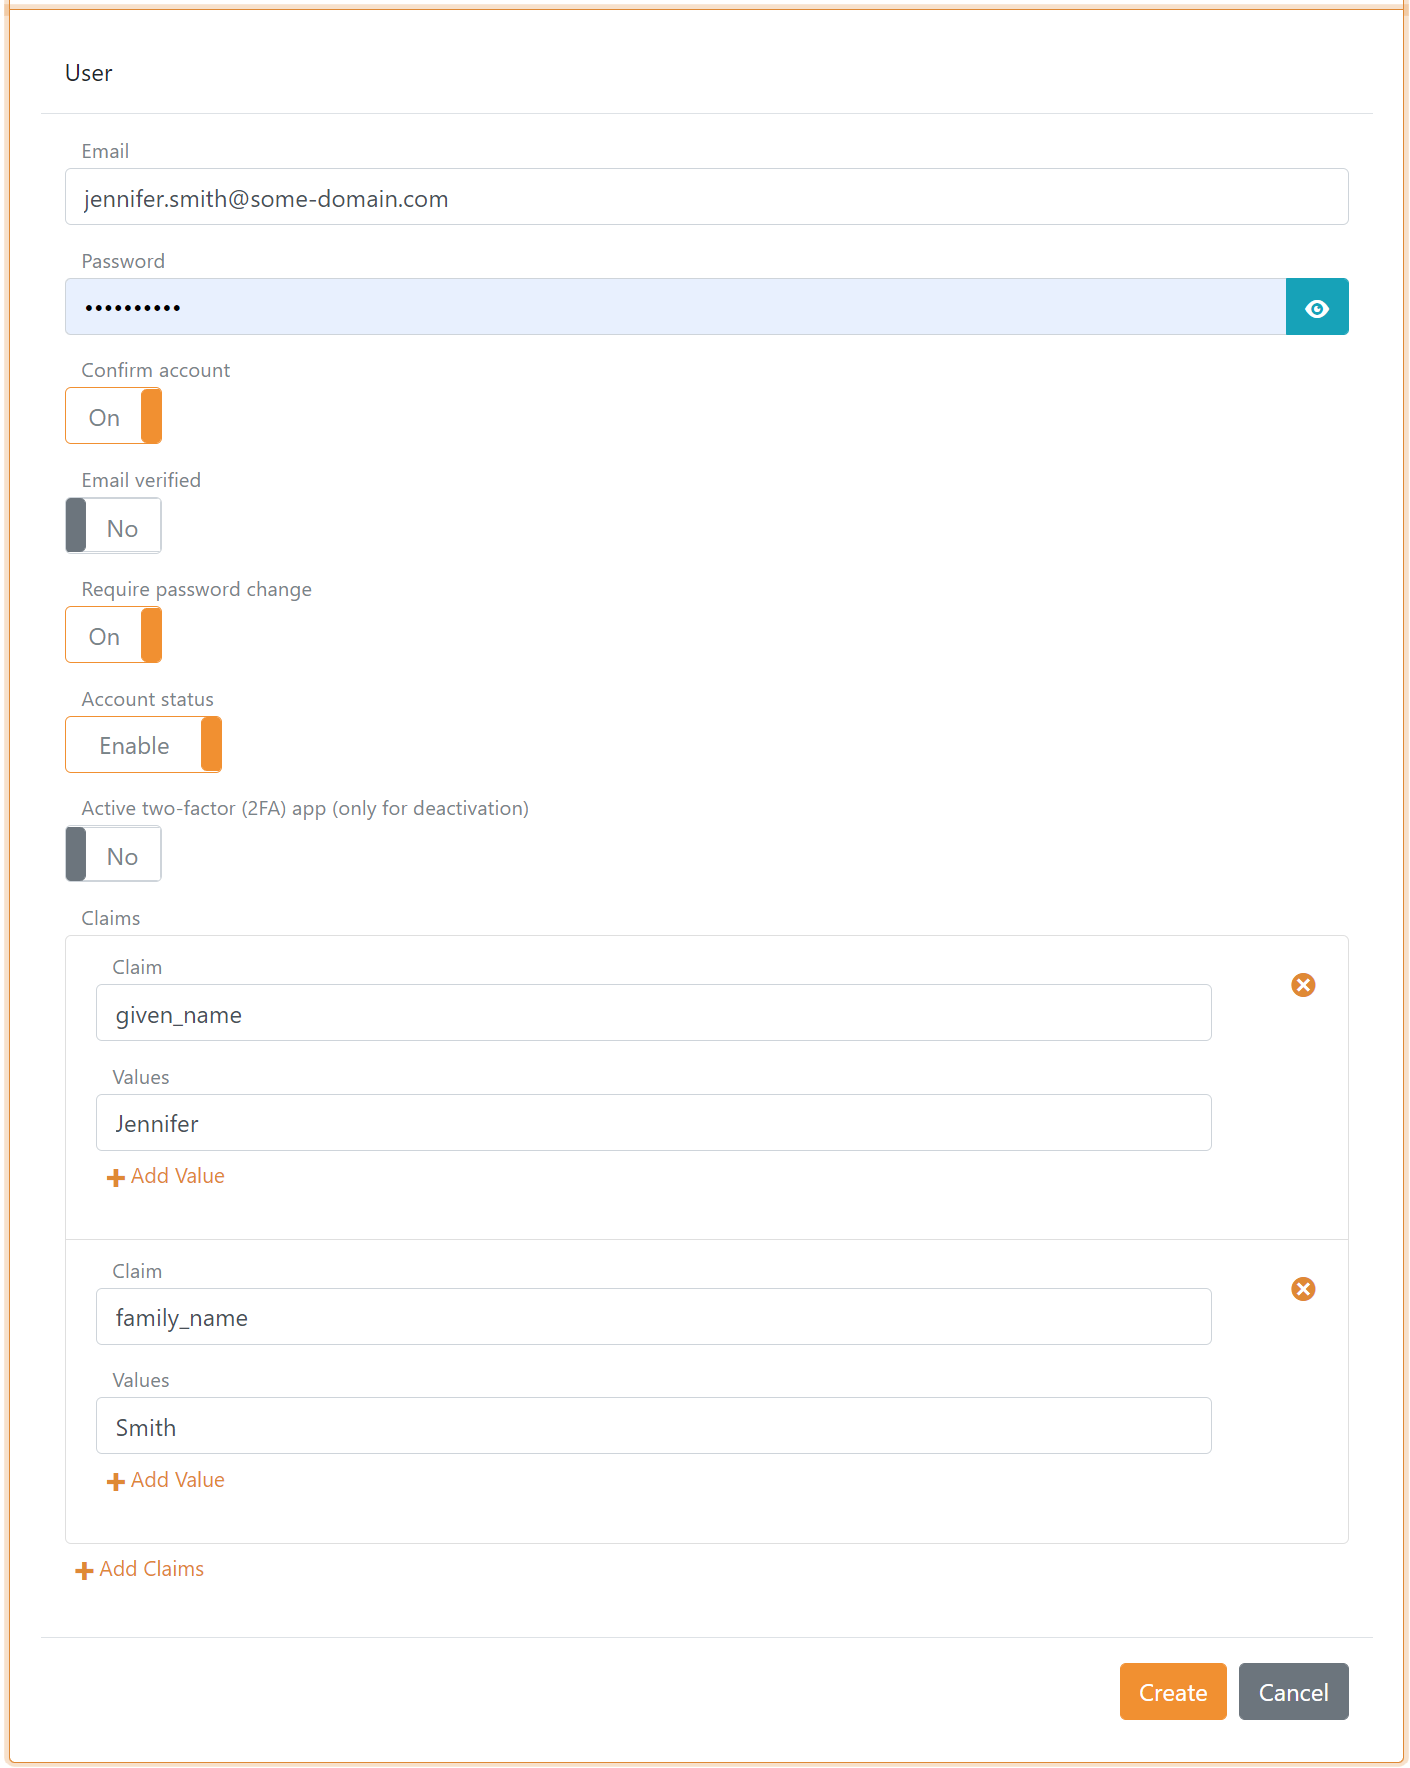
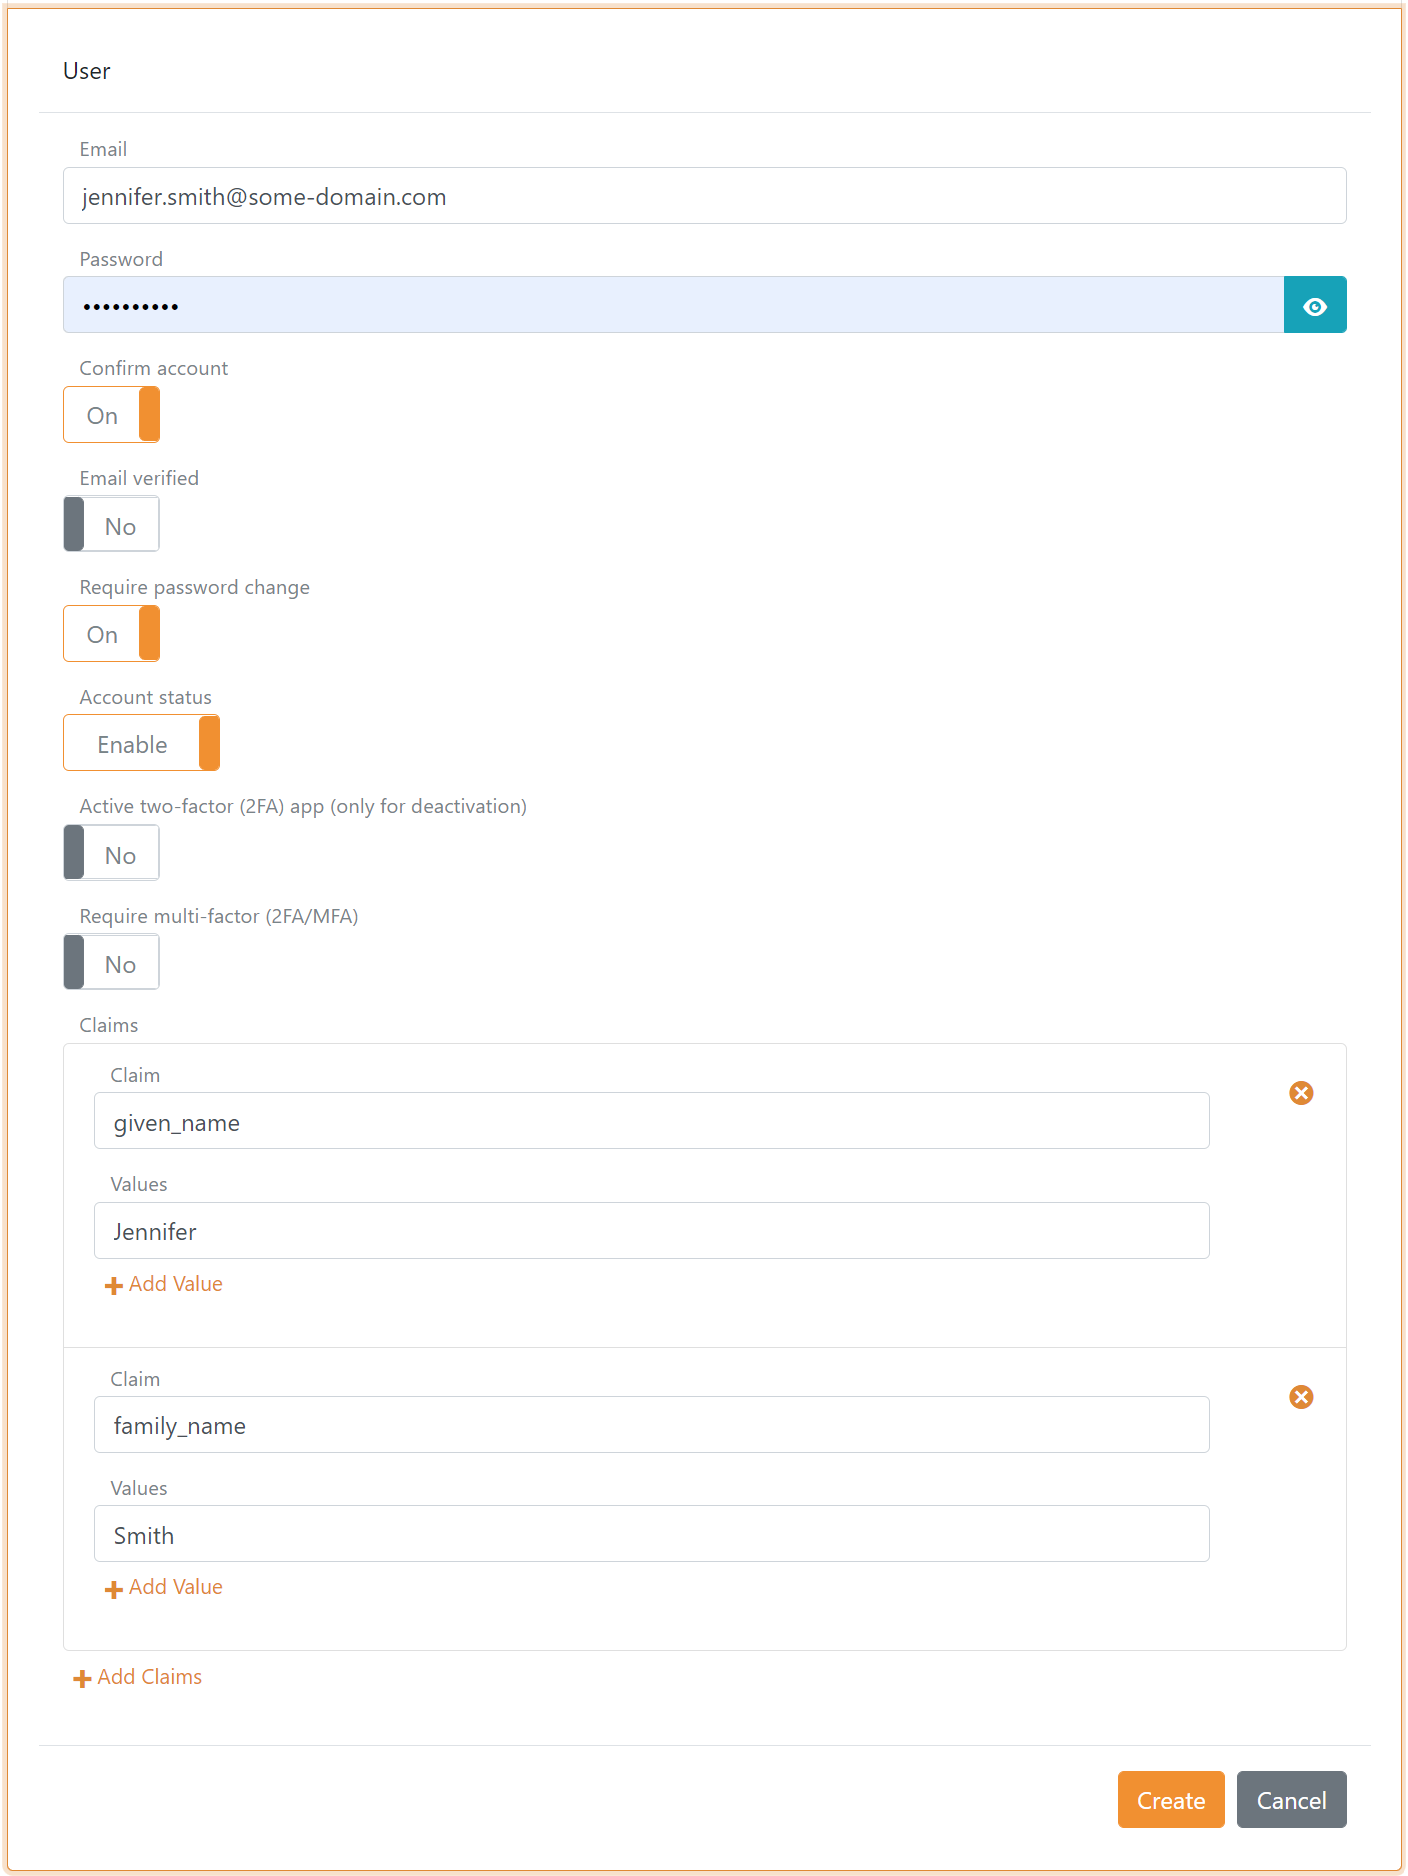
User require MFA.

diff --git a/src/FoxIDs.Shared/Logic/Tracks/BaseAccountLogic.cs b/src/FoxIDs.Shared/Logic/Tracks/BaseAccountLogic.cs
@@ -27,14 +27,14 @@ namespace FoxIDs.Logic
             this.secretHashLogic = secretHashLogic;
         }
 
-        public async Task<User> CreateUser(string email, string password, bool changePassword = false, List<Claim> claims = null, string tenantName = null, string trackName = null, bool checkUserAndPasswordPolicy = true, bool confirmAccount = true, bool emailVerified = false, bool disableAccount = false)
+        public async Task<User> CreateUser(string email, string password, bool changePassword = false, List<Claim> claims = null, string tenantName = null, string trackName = null, bool checkUserAndPasswordPolicy = true, bool confirmAccount = true, bool emailVerified = false, bool disableAccount = false, bool requireMultiFactor = false)
         {
             logger.ScopeTrace(() => $"Creating user '{email}', Route '{RouteBinding?.Route}'.");
 
             email = email?.ToLower();
             ValidateEmail(email);
 
-            var user = new User { UserId = Guid.NewGuid().ToString(), ConfirmAccount = confirmAccount, EmailVerified = emailVerified, DisableAccount = disableAccount };
+            var user = new User { UserId = Guid.NewGuid().ToString(), ConfirmAccount = confirmAccount, EmailVerified = emailVerified, DisableAccount = disableAccount, RequireMultiFactor = requireMultiFactor };
             var userIdKey = new User.IdKey { TenantName = tenantName ?? RouteBinding.TenantName, TrackName = trackName ?? RouteBinding.TrackName, Email = email?.ToLower() };
             await user.SetIdAsync(userIdKey);
 

diff --git a/src/FoxIDs.Control/Controllers/Tracks/TUserController.cs b/src/FoxIDs.Control/Controllers/Tracks/TUserController.cs
@@ -84,7 +84,7 @@ namespace FoxIDs.Controllers
                     }
                 }
                 var mUser = await accountLogic.CreateUser(createUserRequest.Email, createUserRequest.Password, changePassword: createUserRequest.ChangePassword, claims: claims, 
-                    confirmAccount: createUserRequest.ConfirmAccount, emailVerified: createUserRequest.EmailVerified, disableAccount: createUserRequest.DisableAccount);
+                    confirmAccount: createUserRequest.ConfirmAccount, emailVerified: createUserRequest.EmailVerified, disableAccount: createUserRequest.DisableAccount, requireMultiFactor: createUserRequest.RequireMultiFactor);
                 return Created(mapper.Map<Api.User>(mUser));
             }
             catch(UserExistsException ueex)
@@ -145,6 +145,7 @@ namespace FoxIDs.Controllers
                     mUser.TwoFactorAppSecretExternalName = null;
                     mUser.TwoFactorAppRecoveryCode = null;
                 }
+                mUser.RequireMultiFactor = user.RequireMultiFactor;
                 var mClaims = mapper.Map<List<Models.ClaimAndValues>>(user.Claims);
                 mUser.Claims = mClaims;
                 await tenantRepository.UpdateAsync(mUser);

diff --git a/src/FoxIDs/Logic/LoginPageLogic.cs b/src/FoxIDs/Logic/LoginPageLogic.cs
@@ -50,13 +50,17 @@ namespace FoxIDs.Logic
             }
         }
 
-        public bool GetRequereMfa(LoginUpParty loginUpParty, LoginUpSequenceData sequenceData)
+        public bool GetRequereMfa(LoginUpParty loginUpParty, LoginUpSequenceData sequenceData, User user = null)
         {
             if (loginUpParty.RequireTwoFactor)
             {
                 return true;
             }
             else if (sequenceData.Acr?.Where(v => v.Equals(Constants.Oidc.Acr.Mfa, StringComparison.Ordinal))?.Count() > 0)
+            {
+                return true;
+            }
+            else if (user != null && user.RequireMultiFactor)
             {
                 return true;
             }

diff --git a/src/FoxIDs.Shared/Models/Tracks/User.cs b/src/FoxIDs.Shared/Models/Tracks/User.cs
@@ -82,6 +82,9 @@ namespace FoxIDs.Models
         [JsonProperty(PropertyName = "two_factor_app_recovery_code")]
         public TwoFactorAppRecoveryCode TwoFactorAppRecoveryCode { get; set; }
 
+        [JsonProperty(PropertyName = "require_multi_factor")]
+        public bool RequireMultiFactor { get; set; }
+
         [Length(Constants.Models.User.ClaimsMin, Constants.Models.User.ClaimsMax)]
         [JsonProperty(PropertyName = "claims")]
         public List<ClaimAndValues> Claims { get; set; }

diff --git a/src/FoxIDs/Controllers/LoginController.cs b/src/FoxIDs/Controllers/LoginController.cs
@@ -184,7 +184,7 @@ namespace FoxIDs.Controllers
                     }
 
                     var authMethods = new[] { IdentityConstants.AuthenticationMethodReferenceValues.Pwd };
-                    var requereMfa = loginPageLogic.GetRequereMfa(loginUpParty, sequenceData);
+                    var requereMfa = loginPageLogic.GetRequereMfa(loginUpParty, sequenceData, user);
                     if (requereMfa)
                     {
                         sequenceData.Email = user.Email;

diff --git a/src/FoxIDs.ControlClient/Models/ViewModels/Tracks/UserViewModel.cs b/src/FoxIDs.ControlClient/Models/ViewModels/Tracks/UserViewModel.cs
@@ -39,6 +39,9 @@ namespace FoxIDs.Client.Models.ViewModels
         [Display(Name = "Active two-factor (2FA) app (only for deactivation)")]
         public bool ActiveTwoFactorApp { get; set; }
 
+        [Display(Name = "Require multi-factor (2FA/MFA)")]
+        public bool RequireMultiFactor { get; set; }
+
         [MaxLength(Constants.Models.User.UserIdLength)]
         [Display(Name = "User id (unique and persistent)")]
         public string UserId { get; set; }

diff --git a/src/FoxIDs.ControlShared/Models/Api/Tracks/User.cs b/src/FoxIDs.ControlShared/Models/Api/Tracks/User.cs
@@ -33,6 +33,9 @@ namespace FoxIDs.Models.Api
         [Display(Name = "Active two-factor (2FA) app")]
         public bool ActiveTwoFactorApp { get; set; }
 
+        [Display(Name = "Require multi-factor (2FA/MFA)")]
+        public bool RequireMultiFactor { get; set; }
+
         [Length(Constants.Models.User.ClaimsMin, Constants.Models.User.ClaimsMax)]
         [Display(Name = "Claims")]
         public List<ClaimAndValues> Claims { get; set; }

diff --git a/src/FoxIDs.ControlShared/Models/Api/Tracks/UserRequest.cs b/src/FoxIDs.ControlShared/Models/Api/Tracks/UserRequest.cs
@@ -28,6 +28,9 @@ namespace FoxIDs.Models.Api
         [Display(Name = "Active two-factor (2FA) app")]
         public bool ActiveTwoFactorApp { get; set; }
 
+        [Display(Name = "Require multi-factor (2FA/MFA)")]
+        public bool RequireMultiFactor { get; set; }
+
         [Length(Constants.Models.User.ClaimsMin, Constants.Models.User.ClaimsMax)]
         [Display(Name = "Claims")]
         public List<ClaimAndValues> Claims { get; set; }

diff --git a/src/FoxIDs.ControlShared/Models/Api/Tracks/CreateUserRequest.cs b/src/FoxIDs.ControlShared/Models/Api/Tracks/CreateUserRequest.cs
@@ -31,6 +31,9 @@ namespace FoxIDs.Models.Api
         [Display(Name = "Disable account")]
         public bool DisableAccount { get; set; }
 
+        [Display(Name = "Require multi-factor (2FA/MFA)")]
+        public bool RequireMultiFactor { get; set; }
+
         [Length(Constants.Models.User.ClaimsMin, Constants.Models.User.ClaimsMax)]
         [Display(Name = "Claims")]
         public List<ClaimAndValues> Claims { get; set; }
